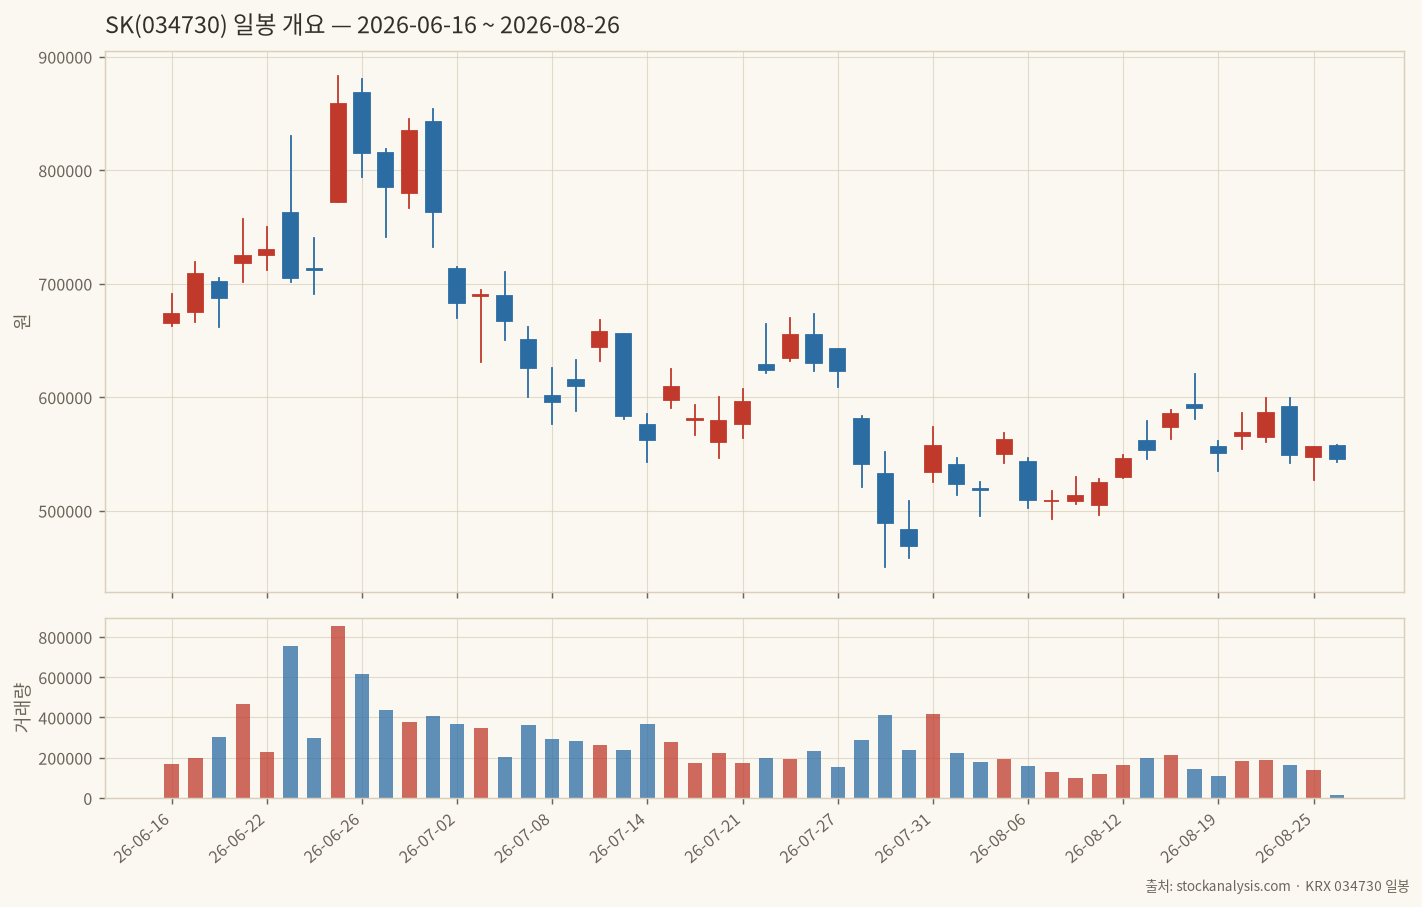
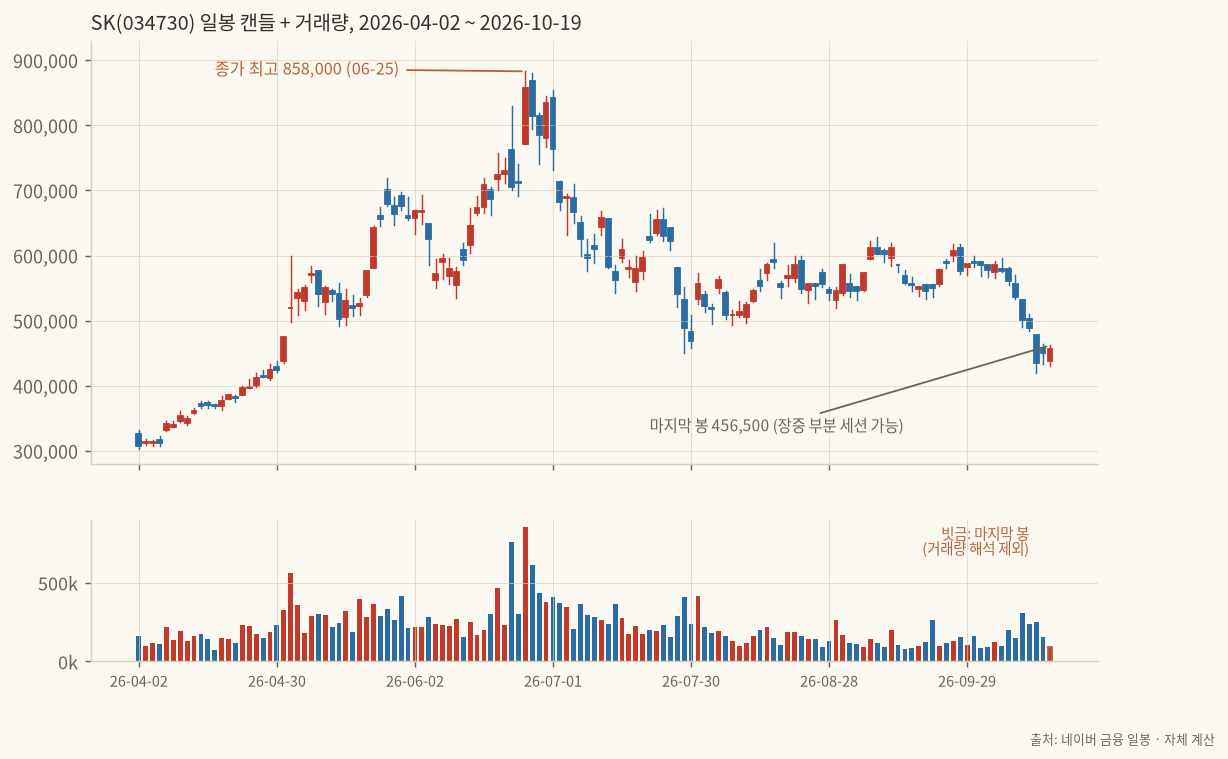
study(N62): publish SK Moving Average Hamming

diff --git a/content/study/sk-moving-average-hamming.md b/content/study/sk-moving-average-hamming.md
@@ -1,0 +1,141 @@
+---
+title: "SK, 고점 대비 49.30% 빠지는 동안 해밍 이동평균 신호 열네 건 중 네 건만 맞았다: 해밍 이동평균 (Moving Average Hamming: SK, Only Four of Fourteen Crossover Signals Held During a 49.30% Slide)"
+description: "SK 일봉 133개로 해밍 창 가중 이동평균 20을 직접 계산해, 돌파 신호 14건의 10거래일 뒤 결과를 전수 채점했다. Moving Average Hamming on SK: only 4 of 14 crossover signals pointed the right way."
+date: 2026-10-19T09:00:00+09:00
+draft: false
+markets: ["stock"]
+tags: ["지표스터디", "기술적지표", "코스피", "자동매매", "지주", "SK"]
+summary: "SK 해밍 이동평균 20 돌파 신호 14건 중 10거래일 뒤 방향이 맞은 것은 4건이었다."
+---
+
+이동평균은 가격 창 안의 값에 가중치를 곱해 더한 평균이다. 단순이동평균(SMA)은 20개 봉에 똑같이 0.05를 준다. 해밍 이동평균(Moving Average Hamming)은 가중치를 해밍 창 모양으로 준다. 창의 가운데 봉에 가장 큰 값을 주고, 가장 오래된 봉과 가장 최신 봉으로 갈수록 값을 줄인다. 양 끝을 깎아서 창에 봉이 들어오고 나갈 때 평균이 덜컥 움직이는 현상을 줄이려는 설계다.
+
+이 종목과 구간을 고른 이유는 단순하다. SK는 2026-04-02 종가 308,000원에서 출발해 2026-06-25 종가 858,000원까지 178.57% 올랐고, 그 뒤 2026-10-15 종가 435,000원까지 49.30% 내려왔다. 한쪽 방향으로 크게 간 뒤 방향이 꺾이고 옆으로 오래 눈치를 보다 다시 떨어졌으니, 평균선이 쓸모 있는지 가려내기에 좋은 표본이다. 부드러운 선이 추세를 잡아 주는지, 아니면 매끈해 보이기만 하는지 숫자로 따져 본다.
+
+<div class="term">
+<div class="term-bar"><i></i><i></i><i></i><em>이 글의 데이터 범위</em></div>
+<pre><code><span class="w">종목</span>      SK
+<span class="w">코드</span>      034730
+<span class="w">구간</span>      2026-04-02 ~ 2026-10-19 (일봉 133개)
+<span class="w">출처</span>      네이버 금융 일봉 (두 엔드포인트 교차검증)
+<span class="c">--------------------------------------------------</span>
+<span class="w">종가 최고</span>  858,000원 (2026-06-25)
+<span class="w">장중 최고</span>  883,000원 (2026-06-25)
+<span class="w">장중 최저</span>  303,500원 (2026-04-02)
+<span class="w">마지막 봉</span>  456,500원 (2026-10-19, 장중 부분 세션일 수 있음)
+<span class="w">직전 종가</span>  450,500원 (2026-10-16)
+<span class="w">고점 낙폭</span>  <span class="r">-49.30%</span> (858,000원 에서 2026-10-15 종가 435,000원)</code></pre>
+</div>
+
+> 이 글은 투자 권유가 아니다. 과거 일봉으로 계산한 기록이며, 같은 신호가 앞으로 같은 결과를 낸다는 보장은 없다.
+
+![SK 일봉 캔들과 거래량](/img/study/sk-01-overview.png)
+
+마지막 봉은 2026-10-19 장중 값일 수 있어서 그 봉의 거래량 94,012주로는 아무 주장도 하지 않는다. 신호 채점도 2026-10-16 까지만 쓴다.
+
+## 계산식
+
+<div class="term">
+<div class="term-bar"><i></i><i></i><i></i><em>Hamming Moving Average 계산식</em></div>
+<pre><code><span class="w">창 길이</span>    N = 20 (일봉 종가)
+<span class="w">원시 가중</span>  w_i = 0.54 - 0.46 * cos(2 * pi * i / (N - 1)),  i = 0 ~ N-1
+<span class="w">정규화</span>    W_i = w_i / sum(w)
+<span class="w">지표값</span>    HMA_t = sum( W_i * close[t - N + 1 + i] ),  i = 0 ~ N-1
+<span class="c">--------------------------------------------------</span>
+<span class="w">비교용</span>    SMA_t = sum( close[t - N + 1 ~ t] ) / N
+<span class="w">상향 신호</span>  close[t-1] &lt;= HMA[t-1] 이고 close[t] &gt; HMA[t]
+<span class="w">하향 신호</span>  close[t-1] &gt;= HMA[t-1] 이고 close[t] &lt; HMA[t]
+<span class="w">채점</span>      신호 10거래일 뒤 종가가 신호일 종가보다 방향대로 움직이면 적중</code></pre>
+</div>
+
+numpy 로 직접 구현했고 지표 라이브러리는 쓰지 않았다. 20으로 잡은 이유는 두 가지다. 거래일 기준 한 달에 가깝고, SMA 20 이 시장에서 가장 흔히 쓰는 기준선이라 비교 상대로 놓기 편하다. 채점 기간을 10거래일로 잡은 것은 창 길이의 절반이기 때문이다. 평균선이 가격을 따라오는 데 걸리는 시간 안에 방향이 맞는지 보려는 선택이다. 어느 값이든 사후에 결과가 좋은 쪽으로 고른 것이 아니다.
+
+해밍 가중치의 가장 오래된 봉은 0.0077, 가장 큰 봉은 가운데의 0.0961이다. 가장 최신 세 봉의 가중치 합은 0.0350에 그친다. SMA 는 같은 세 봉에 0.1500을 준다. 그래서 해밍 평균은 최근 3일의 급한 움직임에 거의 반응하지 않는다.
+
+예열 구간도 짚어 둔다. 일봉이 133개이고 창이 20이라 첫 19개 봉에는 값이 없다. 유효한 값은 2026-04-29 부터 114개다. 길이 10은 124개, 길이 40은 94개(2026-06-01 시작)가 남는다. 길이 40으로 가면 표본이 눈에 띄게 줄어든다.
+
+![해밍 가중치와 SMA 비교](/img/study/sk-02-hamming-vs-sma.png)
+
+## 해밍 창을 고른 이유
+
+상수 0.54와 0.46은 해밍 창의 표준값이다. 비슷한 한(Hann) 창은 양 끝 가중치가 0이라 창의 첫 봉과 마지막 봉이 사실상 평균에서 빠지지만, 해밍 창은 끝에 0.08 이라는 작은 값을 남긴다. 정규화하면 끝 봉이 0.0077을 갖는다. 새 봉이 창에 들어올 때 평균이 아주 조금은 반응한다는 뜻이다. 길이 20의 일봉 평균이 이 정도로 매끈해지는 것을 눈으로 확인하려고 이 창을 골랐다.
+
+가격 쪽 맥락도 적어 둔다. 정점이던 2026-06-25 의 거래량은 852,369주였고 구간 중앙값(마지막 봉 제외 132개)은 197,920.5주다. 정점 하루에 평소의 4배를 넘는 거래가 몰렸다. 다음 거래일 종가는 815,000원으로 내려앉았는데 해밍 평균은 그날 646,098원이었다. 거래량이 먼저 알려 준 변곡점을 가격 평균은 한참 뒤에야 따라갔다.
+
+## 해밍 평균은 SMA 보다 빠른가
+
+대칭 창이라 가중 중심은 창의 한가운데, 즉 약 9.5봉 전이다. SMA 도 가중 중심이 똑같이 9.5봉 전이다. 그래서 해밍 쪽이 시차가 짧다고 기대하면 틀린다. 실제로도 그랬다. 종가가 858,000원으로 정점이던 2026-06-25 에 Hamming MA 20 은 637,219원에 있었고, 이 선이 고점을 찍은 것은 2026-07-09 의 746,951원이다. SMA 20 의 고점은 하루 뒤인 2026-07-10 의 708,450원이었다. 두 선의 정점이 하루 차이다.
+
+차이는 모양에 있다. 두 선의 절대 간격은 평균 12,740원이고 가장 크게 벌어진 날은 2026-07-09 의 41,701원이었다. 종가와의 평균 절대 거리는 해밍이 64,637원, SMA 가 57,828원이다. 해밍 선이 가격에서 더 멀리 떠 있었다는 뜻이다. 최신 봉을 덜 반영하니 당연한 결과다.
+
+## 신호를 전수로 센다
+
+Hamming MA 20 의 돌파 신호는 15건이다. 마지막 신호인 2026-10-08 하향은 10거래일이 아직 안 지나 채점에서 뺐고, 나머지 14건을 채점했다. 방향이 맞은 것은 4건이다.
+
+<div class="term">
+<div class="term-bar"><i></i><i></i><i></i><em>Hamming MA 20 신호와 10거래일 뒤 결과</em></div>
+<pre><code><span class="w">날짜        방향  신호일 종가   10일 뒤 수익률  판정</span>
+<span class="c">--------------------------------------------------</span>
+2026-06-08  하향    572,000      <span class="r">+27.62%</span>       <span class="r">빗나감</span>
+2026-06-15  상향    646,000      <span class="g">+21.52%</span>       <span class="g">적중</span>
+2026-07-02  하향    683,000      <span class="g">-15.08%</span>       <span class="g">적중</span>
+2026-07-23  상향    655,000      <span class="r">-22.29%</span>       <span class="r">빗나감</span>
+2026-07-28  하향    541,000      <span class="g">-3.14%</span>        <span class="g">적중</span>
+2026-08-13  상향    553,000      <span class="r">-1.81%</span>        <span class="r">빗나감</span>
+2026-08-28  하향    543,000      <span class="r">+7.73%</span>        <span class="r">빗나감</span>
+2026-09-01  상향    586,000      <span class="r">-5.29%</span>        <span class="r">빗나감</span>
+2026-09-02  하향    545,000      <span class="r">+1.28%</span>        <span class="r">빗나감</span>
+2026-09-04  상향    573,000      <span class="r">-4.01%</span>        <span class="r">빗나감</span>
+2026-09-14  하향    558,000      <span class="r">+5.38%</span>        <span class="r">빗나감</span>
+2026-09-21  상향    578,000      <span class="r">-2.94%</span>        <span class="r">빗나감</span>
+2026-09-28  하향    576,000      <span class="g">-15.10%</span>       <span class="g">적중</span>
+2026-09-29  상향    587,000      <span class="r">-25.89%</span>       <span class="r">빗나감</span></code></pre>
+</div>
+
+![신호별 10거래일 뒤 결과](/img/study/sk-03-signal-outcomes.png)
+
+맞은 신호부터 본다. 2026-06-15 상향은 10거래일 뒤 785,000원으로 21.52% 올랐다. 2026-07-02 하향은 683,000원에서 580,000원으로 15.08% 빠졌다. 정점 뒤에 잡힌 이 신호가 이 구간에서 가장 쓸모 있었다. 2026-09-28 하향도 10월 중순 15.10% 하락을 앞질렀다.
+
+틀린 신호가 더 많았고 더 아팠다. 2026-06-08 하향은 지금 나가라는 신호였는데 10거래일 뒤 가격은 572,000원에서 730,000원이 됐다. 2026-07-23 상향은 655,000원에서 509,000원으로 22.29% 떨어졌다. 눈에 띄는 것은 2026-09-28 하향 바로 다음 날인 2026-09-29 상향이다. 하루 만에 신호가 뒤집혔고, 상향 신호 쪽은 587,000원이 435,000원이 되는 25.89% 하락으로 끝났다. 같은 선이 이틀 연속으로 정반대를 말했다.
+
+8월 말부터 9월 사이는 박스권이었다. 종가가 평균선 근처를 오르내리니 돌파 신호가 줄줄이 나왔고, 2026-08-28 부터 09-21 까지 신호 6건이 전부 빗나갔다. 5거래일 안에 반대 신호가 뒤따른 경우는 Hamming MA 20 에서 14쌍 중 8쌍이었다. SMA 20 은 14쌍 중 9쌍이다.
+
+## 파라미터를 바꾸면
+
+![길이별 곡선과 적중 건수](/img/study/sk-04-sensitivity.png)
+
+<div class="term">
+<div class="term-bar"><i></i><i></i><i></i><em>길이와 가중 방식별 적중 (10거래일 기준)</em></div>
+<pre><code><span class="w">길이  방식      신호  채점  적중  5일 안 반전 쌍</span>
+<span class="c">--------------------------------------------------</span>
+N=10  Hamming     17    16     5     7
+N=10  SMA         19    16     5     9
+N=20  Hamming     15    14     4     8
+N=20  SMA         15    12     3     9
+N=40  Hamming      9     8     1     4
+N=40  SMA          9     8     2     5</code></pre>
+</div>
+
+길이를 10, 20, 40으로 바꿔도 적중 건수는 채점 건수의 절반을 한 번도 넘지 못했다. 길이 40에서는 8건 중 1건으로 가장 나빴다. 해밍과 SMA 의 차이는 한두 건이라 의미가 없다. 해밍이 반전 쌍을 조금 덜 만든다는 점만 일관되게 보인다. 길이 10은 7쌍 대 9쌍, 길이 20은 8쌍 대 9쌍, 길이 40은 4쌍 대 5쌍이다. 선이 매끈해서 가짜 돌파가 약간 줄어드는 정도다.
+
+표본은 14건이고 한 종목, 한 번의 국면이다. 통계로 부를 숫자가 아니다. 이 숫자로 "해밍 평균이 SMA 보다 낫다"고 말하지 않는다. 말할 수 있는 것은 이 넉 달 동안 20일 평균 돌파는 방향 신호로 거의 못 쓸 만큼 틀렸다는 것까지다.
+
+## 봇 게이트에 넣을 것인가
+
+단독 진입 조건으로는 넣지 않는다. 이 구간에서 돌파 신호의 10거래일 적중이 14건 중 4건이었고, 박스권에서는 신호 6건이 연달아 빗나갔다. 추세가 살아 있는 구간의 필터로 쓸 여지는 있다. 예를 들어 종가가 Hamming MA 20 아래일 때는 롱 진입을 보류하는 식이다. 2026-10-16 현재 종가 450,500원은 Hamming MA 20 값 572,837원보다 한참 아래에 있다. 다만 이 필터가 반등을 얼마나 놓치게 하는지는 이번에 계산하지 않았다. 필터 효과는 다음 스터디에서 따로 재야 한다.
+
+## 남은 것
+
+해밍 창은 평균을 매끈하게 만든다. 이번 구간에서 매끈함이 정확도로 이어지지는 않았다. 두 선의 정점이 하루 차이였다는 점이 가장 분명한 증거다. 가중 중심이 같으면 시차도 같다.
+
+하나는 풀지 못했다. 2026-10-08 하향 신호는 561,000원에서 나왔고 2026-10-16 종가는 450,500원으로 19.70% 낮다. 아직 10거래일이 안 찼으니 적중으로 세지 않았지만, 채점 창이 끝난 뒤에도 이 방향이 이어졌는지는 데이터가 쌓이면 확인할 숙제다. 적중으로 남을지 중간에 뒤집힐지는 아직 모른다.
+
+참고로 이 글은 투자 권유가 아니며, 모든 수치는 위 일봉으로 직접 계산한 값이다. 마지막 봉은 장중 값일 수 있다.
+
+## 약어 풀이
+
+\* 이 글에 나온 영어 약어를 풀어 둔다.
+
+- **SMA** (Simple Moving Average): 단순이동평균. 창 안의 종가에 같은 가중치를 주고 평균낸 값.
+- **HMA** (Hamming Moving Average): 이 글에서 쓴 표기로, 해밍 창 가중치를 곱해 평균낸 이동평균.
+- **MA** (Moving Average): 이동평균. 일정 기간 가격을 평균해 흐름을 매끈하게 만든 선.
